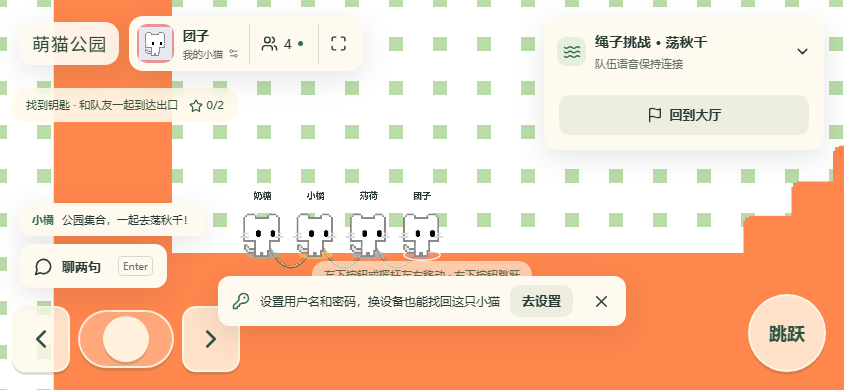
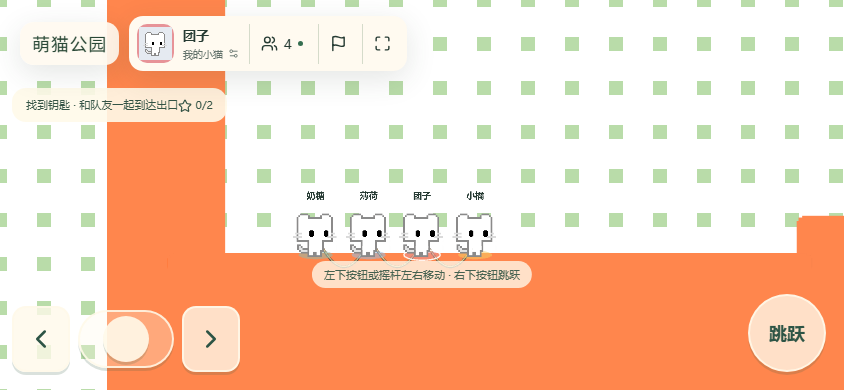
feat: 手机端组队面板改用紧凑尺寸，关卡中默认收起队伍面板与聊天
- 横屏手机（高度 ≤520px）此前只命中宽屏样式，组队面板仍是 310px 宽的电脑尺寸；
  把 700px 断点下的紧凑面板规则（字号、间距、头像、折叠详情）提取到
  (max-width: 700px), (max-height: 520px) 共用块，并删除横屏块中重复的折叠规则
- 触屏设备进入关卡后隐藏队伍面板、聊天预览和账号提示条，顶部新增旗帜按钮
  展开/收起队伍面板（回到大厅、再来一次、静音仍可用）；通关时面板自动显示
- 浏览器测试覆盖关卡中面板默认隐藏及旗帜按钮切换，重新生成 README 截图

diff --git a/src/styles.css b/src/styles.css
@@ -1267,101 +1267,6 @@ legend {
     max-height: calc(100dvh - 223px);
     overflow: auto;
   }
-  .party-empty {
-    padding: 12px;
-  }
-  .party-empty > div {
-    padding-left: 27px;
-  }
-  .party-empty h2 {
-    font-size: 13px;
-  }
-  .party-empty p {
-    font-size: 10px;
-    margin-top: 2px;
-  }
-  .challenge-mark {
-    width: 23px;
-    height: 23px;
-    border-radius: 7px;
-  }
-  .challenge-mark svg {
-    width: 16px;
-  }
-  .party-empty > .button {
-    margin-top: 10px;
-    min-height: 35px;
-    font-size: 12px;
-    padding: 8px;
-  }
-  .party-heading {
-    padding: 3px 7px;
-  }
-  .party-heading-toggle {
-    padding: 7px 3px;
-    gap: 7px;
-  }
-  .party-heading-toggle strong {
-    font-size: 12px;
-  }
-  .party-heading-toggle small {
-    font-size: 10px;
-    margin-top: 3px;
-  }
-  .party-heading-toggle > svg {
-    display: block;
-  }
-  .party-panel:not(.expanded) .party-details {
-    display: none;
-  }
-  .party-details {
-    padding: 0 11px;
-  }
-  .party-actions {
-    padding: 5px 10px 10px;
-    gap: 6px;
-  }
-  .party-actions .button {
-    font-size: 11px;
-    min-height: 33px;
-    padding: 8px 10px;
-  }
-  .party-members {
-    max-height: 170px;
-  }
-  .member-row .avatar {
-    width: 28px;
-    height: 31px;
-    border-radius: 7px;
-  }
-  .player-identity strong {
-    font-size: 11px;
-  }
-  .player-identity > span {
-    font-size: 9px;
-  }
-  .member-row {
-    gap: 7px;
-    padding: 7px 0;
-  }
-  .ready-indicator {
-    font-size: 9px;
-  }
-  .voice-controls {
-    padding: 8px 0;
-  }
-  .mic-message {
-    font-size: 10px;
-  }
-  .ready-note {
-    font-size: 9px;
-  }
-  .party-secondary {
-    gap: 5px;
-  }
-  .party-secondary .text-button {
-    font-size: 10px;
-  }
   .social-panel {
     left: 12px;
     bottom: calc(144px + env(safe-area-inset-bottom));
@@ -1478,19 +1383,112 @@ legend {
     height: 34px;
   }
 }
+/* Portrait narrow windows and landscape phones share the compact party panel. */
+@media (max-width: 700px), (max-height: 520px) {
+  .party-panel {
+    right: max(12px, env(safe-area-inset-right));
+    width: 240px;
+  }
+  .party-empty {
+    padding: 12px;
+  }
+  .party-empty > div {
+    padding-left: 27px;
+  }
+  .party-empty h2 {
+    font-size: 13px;
+  }
+  .party-empty p {
+    font-size: 10px;
+    margin-top: 2px;
+  }
+  .challenge-mark {
+    width: 23px;
+    height: 23px;
+    border-radius: 7px;
+  }
+  .challenge-mark svg {
+    width: 16px;
+  }
+  .party-empty > .button {
+    margin-top: 10px;
+    min-height: 35px;
+    font-size: 12px;
+    padding: 8px;
+  }
+  .party-heading {
+    padding: 3px 7px;
+  }
+  .party-heading-toggle {
+    padding: 7px 3px;
+    gap: 7px;
+  }
+  .party-heading-toggle strong {
+    font-size: 12px;
+  }
+  .party-heading-toggle small {
+    font-size: 10px;
+    margin-top: 3px;
+  }
+  .party-heading-toggle > svg {
+    display: block;
+  }
+  .party-panel:not(.expanded) .party-details {
+    display: none;
+  }
+  .party-details {
+    padding: 0 11px;
+  }
+  .party-actions {
+    padding: 5px 10px 10px;
+    gap: 6px;
+  }
+  .party-actions .button {
+    font-size: 11px;
+    min-height: 33px;
+    padding: 8px 10px;
+  }
+  .party-members {
+    max-height: 170px;
+  }
+  .member-row .avatar {
+    width: 28px;
+    height: 31px;
+    border-radius: 7px;
+  }
+  .player-identity strong {
+    font-size: 11px;
+  }
+  .player-identity > span {
+    font-size: 9px;
+  }
+  .member-row {
+    gap: 7px;
+    padding: 7px 0;
+  }
+  .ready-indicator {
+    font-size: 9px;
+  }
+  .voice-controls {
+    padding: 8px 0;
+  }
+  .mic-message {
+    font-size: 10px;
+  }
+  .ready-note {
+    font-size: 9px;
+  }
+  .party-secondary {
+    gap: 5px;
+  }
+  .party-secondary .text-button {
+    font-size: 10px;
+  }
+}
 @media (max-height: 520px) and (min-width: 701px) {
   .party-panel {
     max-height: calc(100dvh - 36px);
     overflow: auto;
-  }
-  .party-details {
-    display: none;
-  }
-  .party-panel.expanded .party-details {
-    display: block;
-  }
-  .party-heading-toggle > svg {
-    display: block;
   }
   .social-panel.is-open .chat-messages {
     height: 135px;
@@ -1608,10 +1606,21 @@ legend {
     bottom: max(112px, calc(env(safe-area-inset-bottom) + 98px));
   }
 }
-/* The challenge touch pad owns the bottom corners; keep the chat peek above it. */
+/* Touch challenges leave the stage to the cats and the pad: the party panel opens from the header, chat from the player list. */
+.party-toggle {
+  display: none;
+}
 @media (pointer: coarse) {
-  .in-challenge .social-panel:not(.is-open) {
-    bottom: calc(max(18px, env(safe-area-inset-bottom)) + 84px);
+  .in-challenge .party-toggle {
+    display: flex;
+  }
+  .in-challenge .party-toggle[aria-pressed='true'] {
+    color: var(--green);
+  }
+  .in-challenge:not(.party-shown) .party-panel,
+  .in-challenge .social-panel:not(.is-open),
+  .in-challenge .account-prompt {
+    display: none;
   }
 }
 @media (prefers-reduced-motion: reduce) {

diff --git a/src/App.tsx b/src/App.tsx
@@ -2,6 +2,7 @@ import { useCallback, useEffect, useMemo, useState, type FormEvent } from 'react
 import {
   ArrowRight,
   Check,
+  Flag,
   KeyRound,
   LoaderCircle,
   Maximize,
@@ -39,6 +40,12 @@ export default function App() {
   const [socialOpen, setSocialOpen] = useState(() => matchMedia('(min-width: 701px) and (pointer: fine)').matches);
   const [socialTab, setSocialTab] = useState<'chat' | 'players'>('chat');
   const [focused, setFocused] = useState(false);
+  // Touch screens keep the challenge clear; the party panel (return, restart, mute) opens from the header.
+  const [partyShown, setPartyShown] = useState(false);
+  const inChallenge = park.world?.kind === 'challenge';
+  useEffect(() => {
+    if (!inChallenge) setPartyShown(false);
+  }, [inChallenge]);
   const [inviteCode, setInviteCode] = useState(() => new URL(location.href).searchParams.get('invite'));
   const [invitePending, setInvitePending] = useState(false);
   const [dark, setDark] = useState(() => {
@@ -188,7 +195,9 @@ export default function App() {
       .catch(() => undefined);
   }
   return (
-    <main className={`park-app ${park.world?.kind === 'challenge' ? 'in-challenge' : ''}`}>
+    <main
+      className={`park-app ${inChallenge ? 'in-challenge' : ''} ${partyShown || party?.phase === 'won' ? 'party-shown' : ''}`}
+    >
       <div className="game-surface">
         <GameCanvas
           world={park.world}
@@ -204,7 +213,7 @@ export default function App() {
           <Trees size={23} strokeWidth={1.6} />
           <div>
             <h1>萌猫公园</h1>
-            <span>{park.world?.kind === 'challenge' ? '绳子挑战 · 荡秋千' : '散散步，交个朋友'}</span>
+            <span>{inChallenge ? '绳子挑战 · 荡秋千' : '散散步，交个朋友'}</span>
           </div>
         </div>
         {self && (
@@ -238,6 +247,17 @@ export default function App() {
               <span>{onlineCount}</span>
               <i />
             </button>
+            {inChallenge && party && (
+              <button
+                className="online-button party-toggle"
+                data-testid="party-toggle"
+                aria-label={partyShown ? '收起队伍面板' : '打开队伍面板'}
+                aria-pressed={partyShown}
+                onClick={() => setPartyShown(value => !value)}
+              >
+                <Flag size={17} />
+              </button>
+            )}
             {canFullscreen && (
               <button
                 className="online-button"

diff --git a/tests/browser.spec.ts b/tests/browser.spec.ts
@@ -285,7 +285,13 @@ test('touch in a challenge: arrow buttons and the centre stick move sideways, th
     await expect(page.getByTestId('start-game')).toBeEnabled({ timeout: 30_000 });
     await page.getByTestId('start-game').click();
     await expect(phone.getByTestId('game-canvas')).toHaveAttribute('data-world', 'challenge');
-    await toggle.click();
+    // The party panel and chat peek stay out of the way until the header toggle asks for them.
+    await expect(phone.locator('.party-panel')).toBeHidden();
+    await expect(phone.getByRole('button', { name: /聊两句/ })).toBeHidden();
+    await phone.getByTestId('party-toggle').click();
+    await expect(phone.getByRole('button', { name: '回到大厅' })).toBeVisible();
+    await phone.getByTestId('party-toggle').click();
+    await expect(phone.locator('.party-panel')).toBeHidden();
     const canvas = phone.locator('canvas');
     await expect(canvas).toHaveAttribute('data-predicted', 'true');
     // Nothing may cover the pad: each control must be the element under its own centre.

diff --git a/README.md b/README.md
@@ -34,7 +34,7 @@ npm start
 
 默认打开 `http://localhost:3000`。`npm start` 生成运行素材、构建前端，并启动本地 LiveKit 和游戏服务；`npm run start:dev` 启用前端热更新。首次启动会生成本地配置和随机语音密钥。
 
-手机只支持横屏，竖屏时会提示把手机横过来；建议添加到主屏幕或安装为应用后从桌面打开，没有地址栏和状态栏。电脑使用 WASD / 方向键移动，也可点击地面走过去，关卡中用空格跳跃；手机在大厅点一下地面即可走过去，按住拖动则像摇杆一样移动；关卡中左下方是左右按钮和中间的左右摇杆（可点按钮，也可按住摇杆拖动），右下方是跳跃按钮。至少两人组队，队员全部准备、队长麦克风检查通过后由队长开局；准备原则上要求通过麦克风与语音检查，设备确实无法使用时可确认后不开麦准备，队友会看到其未开麦。
+手机只支持横屏，竖屏时会提示把手机横过来；建议添加到主屏幕或安装为应用后从桌面打开，没有地址栏和状态栏。电脑使用 WASD / 方向键移动，也可点击地面走过去，关卡中用空格跳跃；手机在大厅点一下地面即可走过去，按住拖动则像摇杆一样移动；关卡中左下方是左右按钮和中间的左右摇杆（可点按钮，也可按住摇杆拖动），右下方是跳跃按钮；手机关卡中队伍面板和聊天默认收起，点顶部旗帜按钮展开队伍面板，点在线人数打开聊天。至少两人组队，队员全部准备、队长麦克风检查通过后由队长开局；准备原则上要求通过麦克风与语音检查，设备确实无法使用时可确认后不开麦准备，队友会看到其未开麦。
 
 首次进入自动创建账号，可随时在设置里补充用户名和密码，之后可用用户名或用户 ID 登录。离线玩家的小猫会变灰留在大厅原地，头顶显示多久前在线。
 
